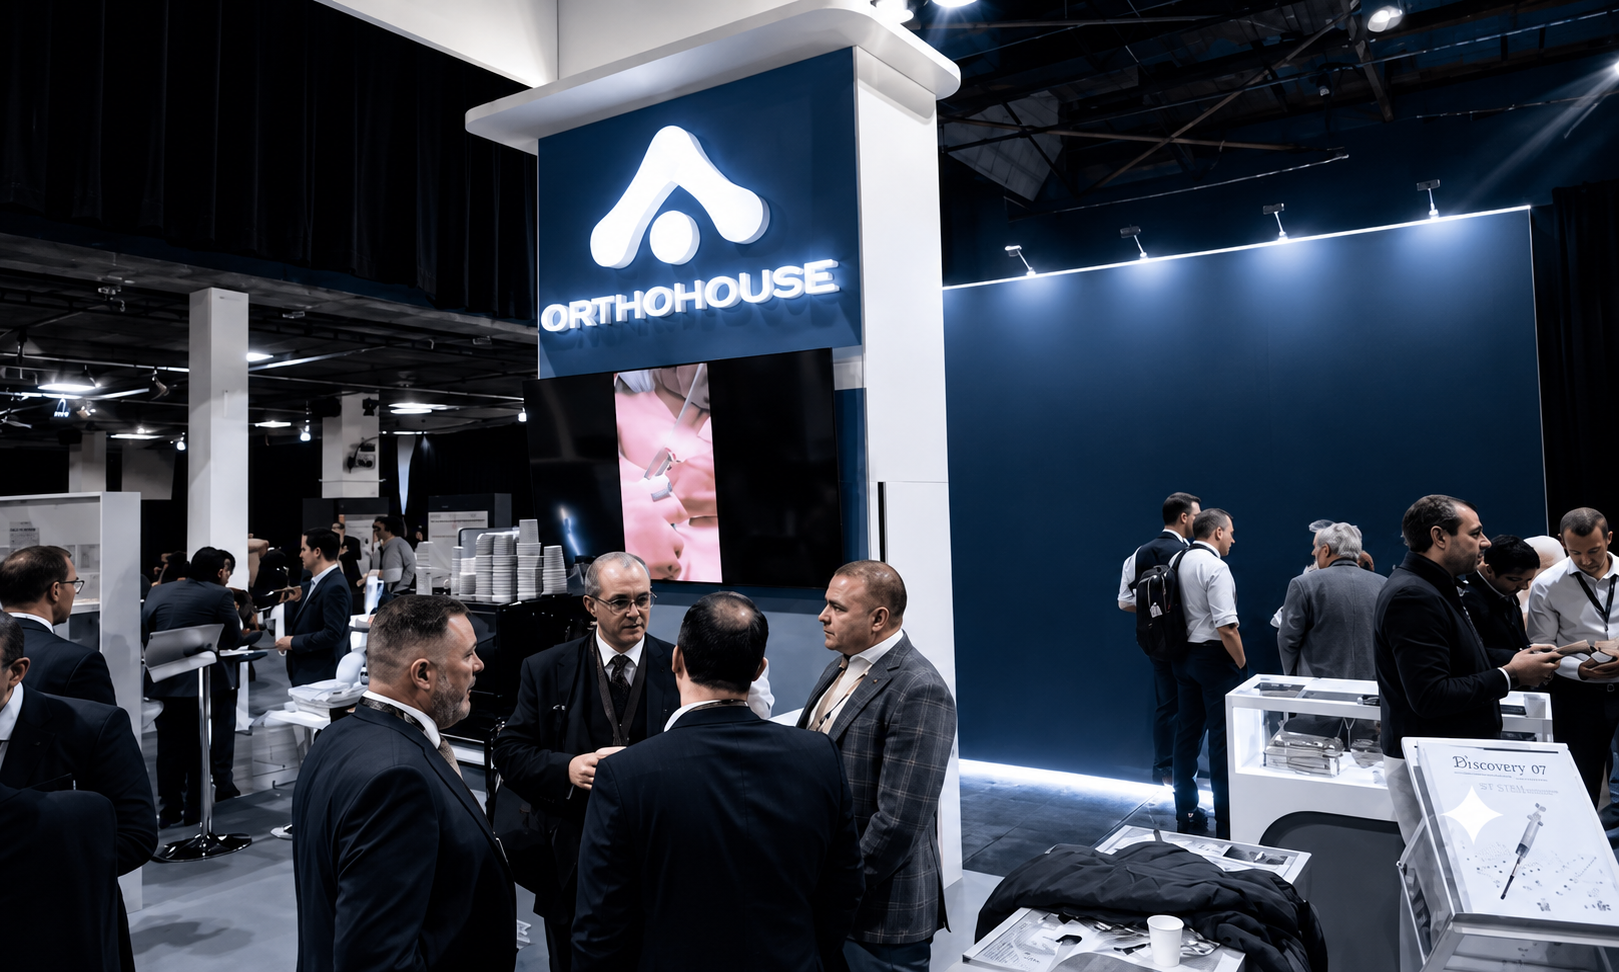
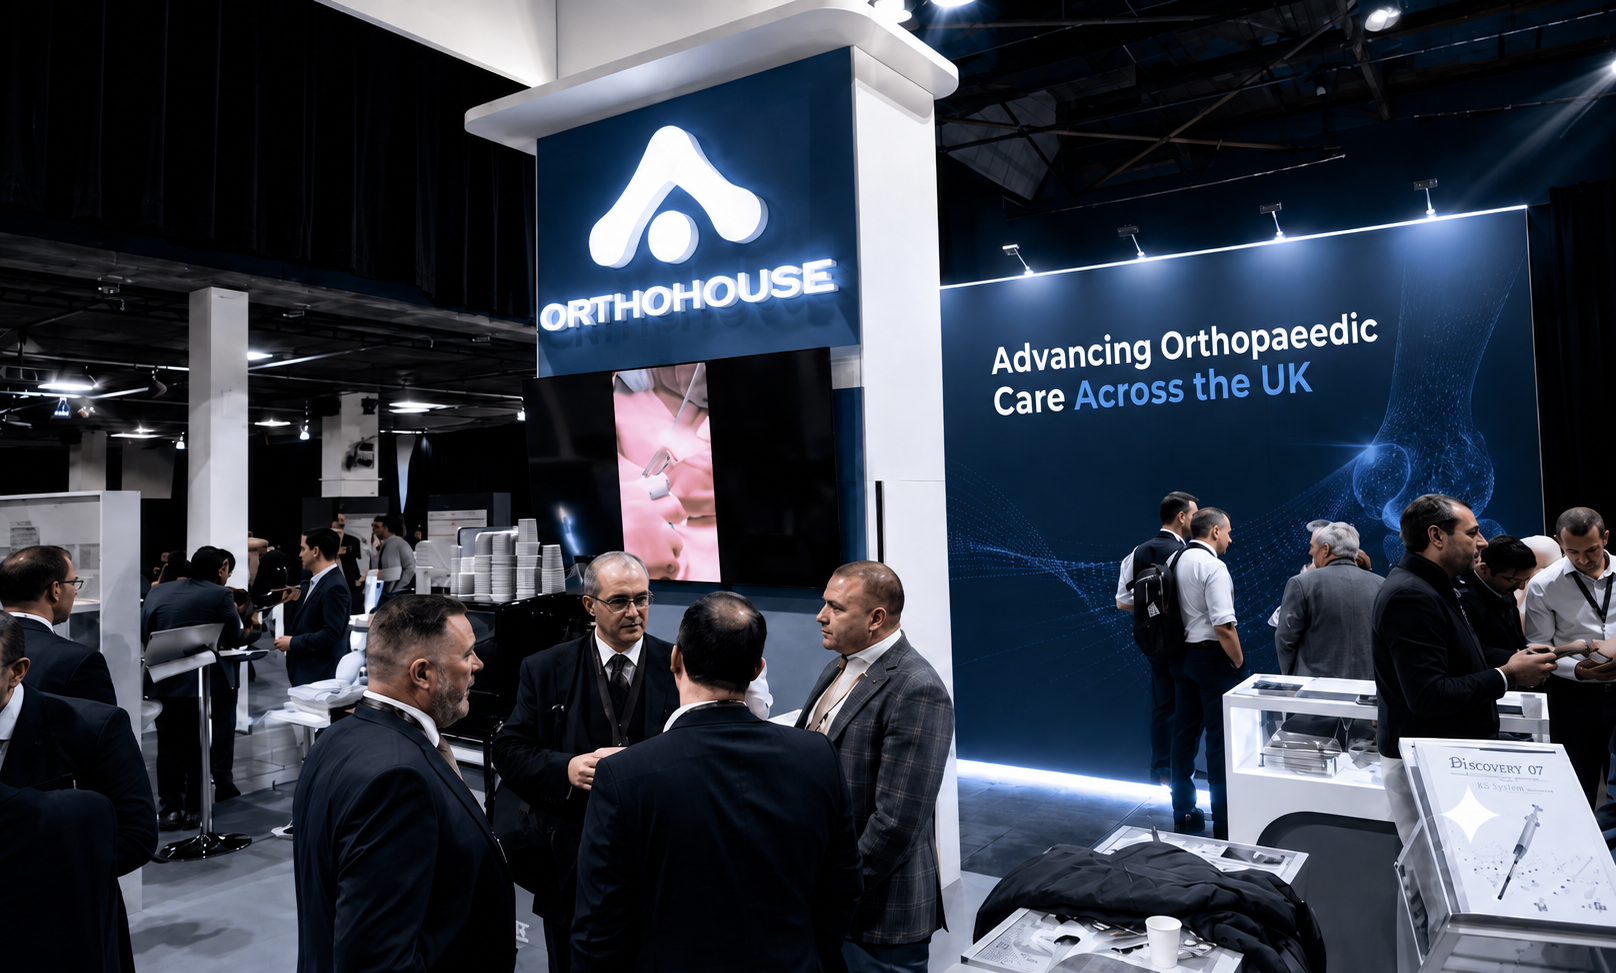
Update About hero image and remove headline overlay.

diff --git a/src/pages/About.css b/src/pages/About.css
@@ -15,11 +15,8 @@
 .about-hero {
   position: relative;
   overflow: hidden;
-  display: flex;
-  align-items: flex-end;
   /* Match photo aspect; cap by viewport height so short laptops don't overflow */
   min-height: clamp(520px, min(calc(100vw / 1.66), 88vh), 88vh);
-  color: var(--white);
   isolation: isolate;
 }
 
@@ -62,76 +59,15 @@
     );
 }
 
-.about-hero__container {
-  position: relative;
-  z-index: 2;
-  width: 100%;
-  min-width: 0;
-  /* padding-block only — preserves .container horizontal inset on desktop */
-  padding-block: clamp(72px, min(8vw, 10vh), 120px) clamp(36px, min(4vw, 6vh), 56px);
-}
-
-.about-hero__content {
-  max-width: 720px;
-  width: 100%;
-  min-width: 0;
-  display: flex;
-  flex-direction: column;
-  gap: clamp(14px, 2vw, 20px);
-}
-
-.about-hero__title {
-  font-family: var(--font-headers), Georgia, 'Times New Roman', serif;
-  font-size: clamp(2.5rem, 5.2vw, 4rem);
-  font-weight: 700;
-  line-height: 1.08;
-  letter-spacing: -0.025em;
-  color: var(--white);
-  opacity: 0.4;
-  margin: 0;
-  display: flex;
-  flex-direction: column;
-  gap: 0.35rem;
-  max-width: 100%;
-  min-width: 0;
-  overflow-wrap: break-word;
-  word-break: normal;
-  hyphens: none;
-  text-shadow: 0 2px 28px rgba(0, 0, 0, 0.35);
-}
-
-.about-hero__title span {
-  display: block;
-  max-width: 100%;
-}
-
-/* Tablet & below: shorter, calmer hero — image + type both tuned so the
-   two-line title always fits without wrapping to an awkward 3rd line. */
 @media (max-width: 768px) {
   .about-hero {
     min-height: clamp(440px, 66vh, 580px);
-    align-items: flex-end;
   }
 
   .about-hero__media .hero-background__img {
     object-position: center 40%;
   }
 
-  .about-hero__container {
-    padding-block: clamp(76px, 16vw, 108px) clamp(40px, 8vw, 52px);
-    padding-inline: var(--ds-space-6);
-  }
-
-  .about-hero__title {
-    font-size: clamp(2rem, 6.4vw, 2.5rem);
-    line-height: 1.12;
-    letter-spacing: -0.015em;
-    text-shadow: 0 2px 10px rgba(0, 0, 0, 0.4), 0 10px 30px rgba(0, 0, 0, 0.35);
-  }
-
-  /* Full-width, bottom-weighted scrim — text now spans the whole viewport
-     on mobile rather than just the left half, so contrast must hold edge
-     to edge without turning muddy. */
   .about-hero__overlay {
     background:
       linear-gradient(
@@ -148,25 +84,6 @@
 @media (max-width: 480px) {
   .about-hero {
     min-height: clamp(400px, 58vh, 500px);
-  }
-
-  .about-hero__container {
-    padding-block: clamp(68px, 20vw, 92px) clamp(32px, 8vw, 44px);
-    padding-inline: var(--ds-space-5);
-  }
-
-  .about-hero__title {
-    font-size: clamp(1.75rem, 7.6vw, 2.15rem);
-  }
-}
-
-@media (max-width: 380px) {
-  .about-hero__container {
-    padding-inline: var(--ds-space-4);
-  }
-
-  .about-hero__title {
-    font-size: clamp(1.6rem, 8.2vw, 1.9rem);
   }
 }
 
@@ -719,17 +636,7 @@
 }
 
 @media (min-width: 1440px) {
-  .about-hero__content {
-    max-width: min(780px, 55%);
-  }
-
   .about-hero {
     min-height: clamp(520px, min(calc(100vw / 1.66), 78vh), 780px);
-  }
-}
-
-@media (min-width: 1920px) {
-  .about-hero__content {
-    max-width: min(820px, 50%);
   }
 }

diff --git a/src/pages/About.jsx b/src/pages/About.jsx
@@ -25,50 +25,6 @@ const About = () => {
     threshold: 0.2
   })
 
-  const [heroRef, heroInView] = useInView({
-    triggerOnce: true,
-    threshold: 0.25
-  })
-
-  const heroContainerVariants = {
-    hidden: { opacity: 0, y: 60 },
-    visible: {
-      opacity: 1,
-      y: 0,
-      transition: {
-        duration: 0.85,
-        ease: [0.22, 1, 0.36, 1],
-        staggerChildren: 0.12,
-        delayChildren: 0.1
-      }
-    }
-  }
-
-  const heroChildVariants = {
-    hidden: { opacity: 0, y: 24, skewY: 4 },
-    visible: {
-      opacity: 0.4,
-      y: 0,
-      skewY: 0,
-      transition: {
-        duration: 0.7,
-        ease: [0.22, 1, 0.36, 1]
-      }
-    }
-  }
-
-  const heroLineVariants = {
-    hidden: { opacity: 0, x: -36 },
-    visible: {
-      opacity: 1,
-      x: 0,
-      transition: {
-        duration: 0.7,
-        ease: [0.22, 1, 0.36, 1]
-      }
-    }
-  }
-
   return (
     <div className="about-page">
       <SEO
@@ -85,20 +41,7 @@ const About = () => {
           alt={aboutPage.hero.imageAlt}
         />
         <div className="about-hero__overlay" aria-hidden="true" />
-        <div className="about-hero__container container">
-          <motion.div
-            className="about-hero__content"
-            ref={heroRef}
-            variants={heroContainerVariants}
-            initial="hidden"
-            animate={heroInView ? 'visible' : 'hidden'}
-          >
-            <motion.h1 className="about-hero__title" variants={heroChildVariants}>
-              <motion.span variants={heroLineVariants}>{aboutPage.hero.titleLine1}</motion.span>
-              <motion.span variants={heroLineVariants}>{aboutPage.hero.titleLine2}</motion.span>
-            </motion.h1>
-          </motion.div>
-        </div>
+        <h1 className="sr-only">{pageSeo.about.title}</h1>
       </div>
 
       <AboutUkJourney />

diff --git a/src/data/localAssets.js b/src/data/localAssets.js
@@ -11,15 +11,14 @@ import { buildLocalImage } from '../utils/responsiveImage'
 // —— Page heroes —————————————————————————————————————————————————————————————
 
 /** About hero — ORTHOHOUSE trade show exhibition booth */
-export const aboutHeroImage = {
+export const aboutHeroImage = buildLocalImage({
   category: 'about',
   name: 'about',
-  src: '/assets/about.png',
   alt: 'ORTHOHOUSE UK exhibition booth at an orthopaedic trade show',
-  width: 1619,
-  height: 972,
-  source: 'legacy'
-}
+  source: 'legacy',
+  width: 1616,
+  height: 973
+})
 
 /** Contact hero — legacy office photography (high resolution) */
 export const contactHeroImage = buildLocalImage({

diff --git a/src/styles/responsive.css b/src/styles/responsive.css
@@ -261,15 +261,6 @@
 @media (min-width: 1440px) and (max-height: 900px) {
   .about-hero {
     min-height: clamp(420px, 68vh, 560px);
-    align-items: flex-end;
-  }
-
-  .about-hero__container {
-    padding-block: clamp(64px, min(6vw, 8vh), 96px) clamp(28px, min(3vw, 4vh), 44px);
-  }
-
-  .about-hero__title {
-    font-size: clamp(2.25rem, 3.5vw, 3rem);
   }
 
   .blog-hero,
